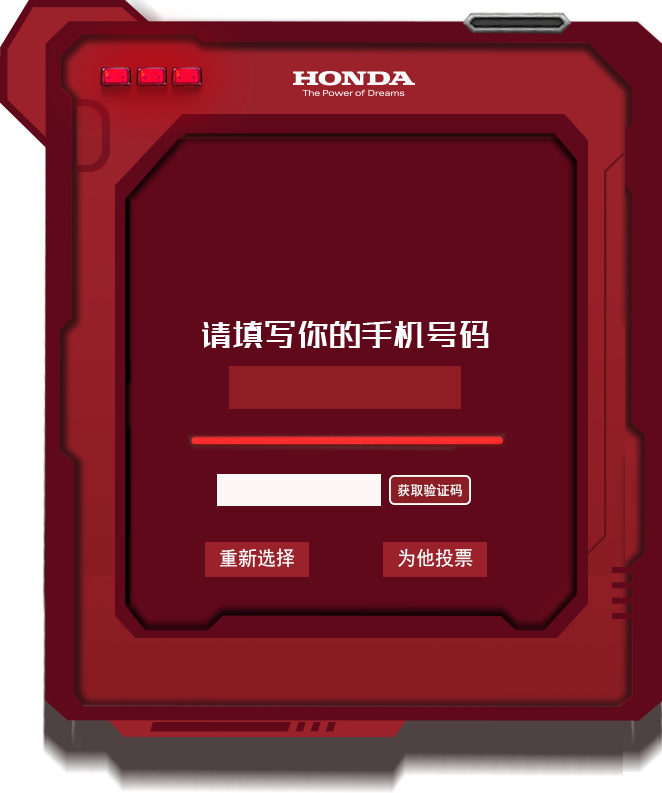
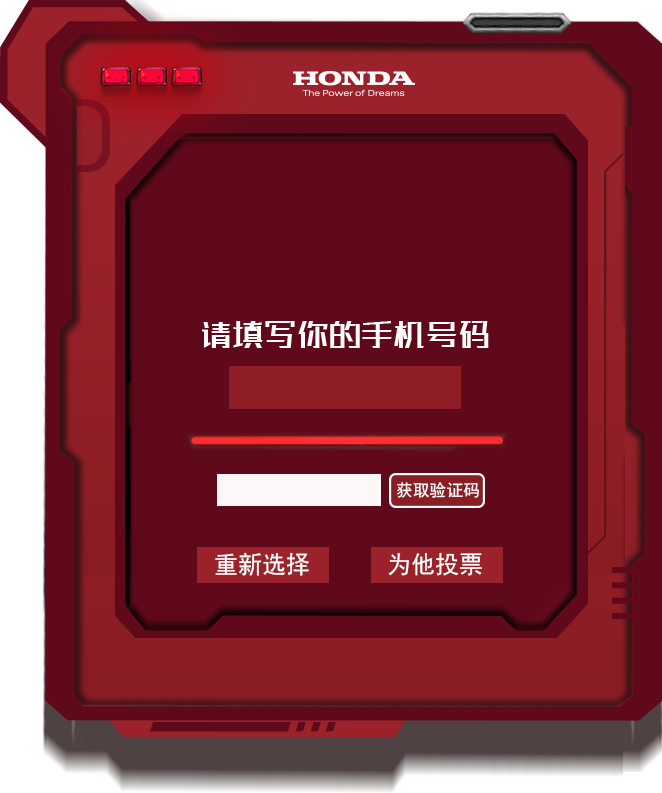
fix

Changed region(s): [[0.5438, 0.575, 0.7855, 0.7566], [0.2719, 0.6658, 0.5136, 0.7566]]

diff --git a/css/main.css b/css/main.css
@@ -50,13 +50,13 @@ body{ position: relative; text-align: left; background-color: #780c17; font-fami
 .rule-light-1{ position: absolute; left: 6.75rem; top: 0.34rem;}
 .rule-light-2{ position: absolute; width: 1.875rem; height: 0.09375rem; background-color: #f52b2c; bottom: 0.1016rem; left: 2.22rem;
 transform: scaleX(1) skew(-15deg);}
-.rule-content{ position: absolute; width: 7.1875rem; height: 9.84375rem; left: 1.4rem; top: 2.4375rem;}
+.rule-content{ position: absolute; width: 7.25rem; height: 9.84375rem; left: 1.4rem; top: 2.4375rem;}
 .rule-content h2{ text-align: center; margin-bottom: .3rem;}
 .rule-content h2 img{ width: 2.390625rem; margin: 0 auto;}
 .rule-content .text{ font-size: .28rem; color: #fff;}
 .rule-content .text p{ margin-bottom: .15rem; padding-left: 1em; line-height: 130%; text-indent: -1em;}
-.btn-close{ position: absolute; bottom: 0rem; left: 2.92rem;}
-.btn-close img{ width: 1.796875rem;}
+.btn-close{ position: absolute; bottom: 0rem; left: 2.7rem;}
+.btn-close img{ width: 2rem;}
 
 .page .content{ width: 100%; height: 100%; position: relative;}
 .row{ position: absolute; width: 10rem;}
@@ -94,7 +94,7 @@ transform: scaleX(1) skew(-15deg);}
 
 
 /*page1*/
-.page1{ background-color: #ac2831; }
+.page1{ background: #ac2831 url(../images/page1_bg.jpg) no-repeat left top; }
 .page1 .row-level-1{ bottom: 0; left: 0;}
 .page1 .row-level-2{ bottom: 4rem; left: 0;}
 .page1 .row-level-3{ bottom: 0; left: 0;}
@@ -126,9 +126,9 @@ transform: scaleX(1) skew(-15deg);}
 .page .rule-content .text{ padding-top: .6rem;}
 .page .rule-content .text p{ line-height: 150%; margin-bottom: .3rem;}
 .page .rule-content .btn-confirm{ position: absolute; bottom: 0rem; left: 1rem;}
-.page .rule-content .btn-back{ position: absolute; bottom: 0rem; left: 3.2rem;}
+.page .rule-content .btn-back{ position: absolute; bottom: 0rem; left: 3.5rem;}
 .page .rule-content .btn-confirm img,
-.page .rule-content .btn-back img{ width: 1.796875rem;}
+.page .rule-content .btn-back img{ width: 2rem;}
 .page .row-masker{ position: absolute; width: 100%; height: 100%; left: 0; top: 0; opacity: 0.7; background-color: #000;}
 
 
@@ -154,7 +154,7 @@ transform: scaleX(1) skew(-15deg);}
 .page-board .row-level-9{ width: 3.375rem; height: 3.703125rem; top: 12.03125rem; right: 0.234375rem;}
 .page-board .row-level-10{ width: 10.34375rem; top: 0.78125rem; left: 0.25rem;}
 .page-board .row-level-10 .rank-btn{ position: absolute; left: 4.375rem; top: 2.5rem; width: 2.265625rem;}
-.page-board .row-level-10 .btn-submit{ width: 1.625rem; position: absolute; top: 12.03125rem; left: 4.6875rem;}
+.page-board .row-level-10 .btn-submit{ width: 2rem; position: absolute; top: 11.9rem; left: 4.6875rem;}
 .page-board .scroll-wrap{ left: 2.109375rem; top: 3.21875rem; height: 8.55rem;}
 .page-board .rule-light-1{ left: 7.45rem; top: 0.264rem;}
 .page-board .rule-light-2{ bottom: 0.79rem; left: 2.41rem; width: 2.06rem;}
@@ -186,8 +186,8 @@ transform: scaleX(1) skew(-15deg);}
 .page4 .pd-list li:last-child .item-right{ border-bottom: 0;}
 .page4 .item-right .text .name,
 .page4 .item-right .text .dis{ line-height: 150%;}
-.page4 .btn-back-list{ position: absolute; z-index: 9; bottom: 1.7rem; left: 4.8rem;}
-.page4 .btn-back-list img{ width: 1.625rem;}
+.page4 .btn-back-list{ position: absolute; z-index: 9; bottom: 1.7rem; left: 4.64rem;}
+.page4 .btn-back-list img{ width: 2rem;}
 
 /*page5*/
 .board{ position: absolute; width: 7.78125rem; height: 9.453125rem; left: 50%; top: 50%; margin-left: -3.890625rem; margin-top: -4.7265625rem;}
@@ -205,8 +205,8 @@ transform: scaleX(1) skew(-15deg);}
 .board .row-level-7{ top: 4.890625rem; left: -0.53125rem;}
 .board .row-level-8{ left: auto; top: auto; bottom: -2.03125rem; right: 0.390625rem;}
 .board .row-level-9{ top: auto; bottom: -1.75rem; right: -1.5rem; z-index: 2;}
-.board .btn-back-choose{ bottom: -1.3rem; left: 1.62rem; width: 2.03125rem; z-index: 3;}
-.board .btn-start-vote{ bottom: -1.3rem; width: 2.03125rem; left: 4.45rem; z-index: 3;}
+.board .btn-back-choose{ bottom: -1.3rem; left: 1.58rem; width: 2.2rem; z-index: 3;}
+.board .btn-start-vote{ bottom: -1.3rem; width: 2.2rem; left: 4.4rem; z-index: 3;}
 
 
 .page5 .row-level-10{ left: 1.109375rem; top: 3.34375rem; width: 7.78125rem;}
@@ -232,15 +232,15 @@ transform: scaleX(1) skew(-15deg);}
 .page6 .pd-list-3 li .dis{ display: none;}
 .page6 .mobile{ position: absolute; left: 3.578125rem; top: 5.765625rem; width: 3.5rem; height: 0.6rem; color: #fff; font-size: .4rem; text-align: center; line-height: 0.6rem;}
 .page6 .sms{ position: absolute; width: 2.5rem; height: 0.5rem; top: 7.4rem; left: 3.42rem; color: #333; text-align: center; font-size: 0.3rem; line-height: 0.5rem;}
-.page6 .btn_getsms{ position: absolute; left: 6.09375rem; top: 7.453125rem; width: 1.225rem; height: 0.5rem;}
-.page6 .btn-back-choose{ position: absolute; left: 3.203125rem; top: 8.46875rem; width: 1.625rem; height: 0.546875rem;}
-.btn-start-shake{ position: absolute; left: 5.96875rem; top: 8.46875rem; width: 1.625rem; height: 0.546875rem;}
+.page6 .btn_getsms{ position: absolute; left: 6.04rem; top: 7.38rem; width: 1.6rem; height: 0.6rem;}
+.page6 .btn-back-choose{ position: absolute; left: 3.078125rem; top: 8.546875rem; width: 2.0625rem; height: 0.5625rem;}
+.btn-start-shake{ position: absolute; left: 5.796875rem; top: 8.546875rem; width: 2.0625rem; height: 0.5625rem;}
 
 /*page7*/
 .page7 .ss{ position: absolute; left: 1.203125rem; top: 1.03125rem; width: 5.46875rem; z-index: 4;}
 .page7 .ss_code{ position: absolute; left: 2.375rem; top: 6.546875rem; color: #fff; font-size: .4rem; text-align: center; z-index: 4; width: 3.1rem; line-height: .66rem;}
 
-.share-btn{ position: absolute; left: 3.15rem; bottom: -1rem; width: 1.796875rem; }
+.share-btn{ position: absolute; left: 3.09rem; bottom: -1.2rem; width: 2rem; }
 .share-cover{ position: absolute; left: 0; top: 0; width: 100%; height: 100%; background-image: url(../images/share_cover.png); background-position: center -1rem; background-repeat: no-repeat; background-size: 100% auto; background-color: rgba(0,0,0,0.75); display: none; z-index: 998;}
 .share-cover .inner{ position: absolute; width: 6.078125rem; height: 5.15625rem; left: 50%; top: 0; margin-left: -3.0390625rem; margin-top: 4.3rem;}
 .share-cover .tl-light{ left: 0.64rem; top: 0.595rem;}

diff --git a/index.html b/index.html
@@ -28,22 +28,17 @@
 			<div class="rule-content">
 				<h2><img src="images/rules_tit.png" /></h2>
 				<div class="text">
-					<p>1. 本次投票活动共有150件作品参赛，不分组别，每辆参赛车均有唯一编号（编号为电脑随机生成）；</p>
-					<p>2. 投票活动持续三天，前后分两轮，分别为150进10以及10进1；</p>
-					<p>3. 第一轮 150进10<br />
-					● 投票时间：2015年10月23日9:00至10月24日16:00<br />
-					● 每位用户每天限1次投票机会，每次必须选投3件作品<br />
-					● 根据投票数先后，从150辆车中竞选出前10名<br />
-					（投票页面附有排行榜按钮点击可查看前10名作品）</p>
-					<p>4. 第二轮 10进1<br />
-					● 投票时间：2015年10月25日9:00至16:00<br />
-					● 每位用户当天限1次投票机会，进入第二轮投票限选<br />
-					前10强中的任意3件作品<br />
-					● 根据投票数高低，最终从10件作品中竞选出冠军<br />
-					● 用户在投票成功后，系统将自动发送兑奖码至用户<br />
-					手机，活动最后，大赛将随机抽选并公布6名幸运者，<br />
-					兑奖码为用户唯一凭证。</p>
-					<p>5. 本次活动最终解释权归Honda中国节能竞技大赛组委会所有</p>
+					<p>1. 本次投票活动参赛作品不分组别，每辆参赛车均有唯一编号（编号为电脑随机生成）；</p>
+					<p>2. 评选活动持续三天，前后分两轮，分别为全体进10，和10进1；</p>
+					<p>3. 第一轮 全体进10（投票评选）<br />
+					● 投票时间：2016年10月28日9:00至10月29日17:00<br />
+					● 每位用户每天限一次投票机会，每次必须选投三件作品<br />
+					● 根据投票数先后，从全体参评车辆中竞选出前10名<br />（投票页面附有排行榜按钮，点击可查看前10名作品）</p>
+					<p>4. 第二轮 10进1（专家评选）<br />
+					● 评选时间：2016年10月30日9:00至14:00<br />
+					● 由本田中国指定的专家评选委员会进行评选</p>
+					<p>5. 用户在投票成功后，系统将自动发送兑奖码至用户手机，活动最后，现场大屏幕将随机抽选6名幸运者，用户以兑奖码为唯一领奖凭证，与现场工作人员联系领奖</p>
+					<p>6. 本次活动最终解释权归Honda中国节能竞技大赛组委会所有</p>
 				</div>
 				<div class="btn-close sound-btn"><img src="images/btn_back.png" /></div>
 			</div>
@@ -108,11 +103,11 @@
 								<div class="text">
 									<p>对150辆参赛作品进行网络投票，投票分两轮：</p>
 									<p>● 第一轮 153进10</p>
-									<p>（ 时间：2016年10月29日9:00至10月30日16:00 ）</p>
+									<p>（ 时间：2016年10月28日9:00至10月29日17:00 ）</p>
 									<p>每人每天限投1次，每次必须在150件作品中选投3件</p>
 									<p>● 本次活动最终解释权归Honda中国节能竞技大赛<br />组委会所有</p>
 									<p>欢迎参加本届大赛“最佳设计奖“投票评选活动</p>
-									<p>活动日期:2016年10月29日9:00至10月30日14:00截止；</p>
+									<p>活动日期：2016年10月28日9:00至10月30日14:00截止；</p>
 								</div>
 								<div class="btn-confirm sound-btn"><img src="images/btn_confirm.png" /></div>
 								<div class="btn-back sound-btn"><img src="images/btn_back.png" /></div>
@@ -182,7 +177,6 @@
 										<ul class="pd-list works-list pd-list-1"></ul>
 									</div>
 								</div>
-								<!-- Add Scroll Bar -->
 								<div class="swiper-scrollbar"></div>
 							</div>
 							<div class="scroll-container scroll-container-2">
@@ -191,7 +185,6 @@
 										<ul class="pd-list works-list pd-list-2"></ul>
 									</div>
 								</div>
-								<!-- Add Scroll Bar -->
 								<div class="swiper-scrollbar"></div>
 							</div>
 						</div>
@@ -248,7 +241,6 @@
 										<ul class="pd-list leader-board"></ul>
 									</div>
 								</div>
-								<!-- Add Scroll Bar -->
 								<div class="swiper-scrollbar"></div>
 							</div>
 						</div>
@@ -416,7 +408,7 @@
 	<audio style="display:none;" class="audio" loop="loop" id="bgm" controls="controls" src="media/bgm.mp3" ></audio>
 	<audio style="display:none;" class="audio" id="button" controls="controls" src="media/button.mp3" ></audio>
 	<audio style="display:none;" class="audio" id="impact" controls="controls" src="media/impact.mp3" ></audio>
-	<audio style="display:none;" class="audio" id="gear" controls="controls" src="media/gear.mp3" ></audio>
+	<audio style="display:none;" class="audio" loop="loop" id="gear" controls="controls" src="media/gear.mp3" ></audio>
 	<script type="text/javascript" src="js/jquery.min.js"></script>
 	<script src="http://res.wx.qq.com/open/js/jweixin-1.0.0.js"></script>
 	<script type="text/javascript" src="js/preloadjs.min.js"></script>

diff --git a/js/main.js b/js/main.js
@@ -254,6 +254,8 @@ $(function(){
 						playAudio('#impact');
 					},1000)
 					playAudio('#gear');
+				}else{
+					audioOff('#gear');
 				}
 				
 				if(e.activeIndex === 2){
@@ -303,7 +305,6 @@ $(function(){
 	function touchstartHandler(){
 		if(!($('.audio').hasClass('loaded'))){
 			$('.audio').addClass('loaded');
-			loadAudio();
 			if(voiceStatus){
 				playAudio('#bgm');
 			}
@@ -397,7 +398,7 @@ $(function(){
 		this.listWraps = $('.works-wrap .works-list');
 		this.boardWrap = $('.leader-board');
 		this.checkedNum = 0;
-		this.activeNode;
+		this.activeNode = this.list[0];
 		this.selectNode = [];
 		this.setWorksList();
 	};
@@ -486,7 +487,8 @@ $(function(){
 						self.boardWrap.empty();
 						$(list_data).each(function(index,item){
 							var list_node = _.find(self.list, function(node){ return node.name == item.Name; });
-							var li = $('<li><div class="item rank">'+item.rowno+'</div><div class="item item-right"><div class="img-wrap"><div class="img-cover"></div><div class="img"><img src='+list_node.img+' /></div></div><div class="text"><div class="name">名称: '+item.Name+'</div><div class="dis">加油量: '+item.vote+'ml</div></div></div></li>');
+							var img = list_node && list_node.img ? list_node.img : '';
+							var li = $('<li><div class="item rank">'+item.rowno+'</div><div class="item item-right"><div class="img-wrap"><div class="img-cover"></div><div class="img"><img src='+img+' /></div></div><div class="text"><div class="name">名称: '+item.Name+'</div><div class="dis">加油量: '+item.vote+'ml</div></div></div></li>');
 							li.on('click',function(){
 								self.activeNode = list_node;
 								console.log(self.activeNode)

diff --git a/js/data.js b/js/data.js
@@ -1,7 +1,7 @@
 window.worksList = new Array(153); //{id:1, name:"a1", des: "这是一个Honda的季节", img:"images/works_1.jpg", group:1},
 
 $(window.worksList).each(function(index,item){
-	var name = (index+1)<70 ? 'a'+(index+1): 'b'+(index+1);
+	var name = index<82 ? 'a'+(index+1): 'b'+(index-81);
 	var img = 'images/works_'+(index+1)+'.jpg';
 	window.worksList[index] = {
 		id: (index+1),
